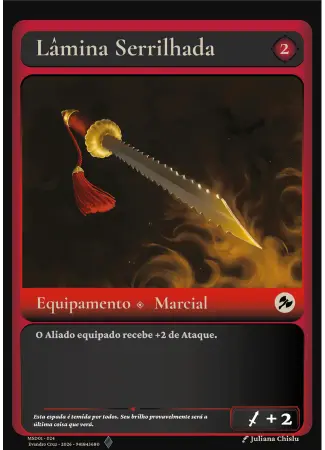
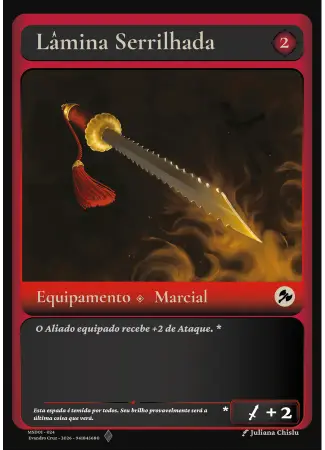
Atualiza layouts das cartas, remove recorte da Redoma Santa e ajusta testes para refletir mudanças

diff --git a/data/cards.js b/data/cards.js
@@ -88,12 +88,8 @@ const sourceOverrides = {
   mantocouro: 'layout-mantocouro.ai.png',
   mascota: 'layout-aranhasmascote.ai.png'
 };
-const sourceCrops = {
-  redomasanta: { left: 0, top: 0, width: 744, height: 1050 }
-};
 export const cards = entries.map(([id, name, type, affiliation, cost, description = '', token = false]) => ({
   id, name, type, affiliation, cost, description, token,
-  crop: sourceCrops[id],
   image: `/media/cartas/layout-${id}.webp`,
   thumbnail: `/media/cartas/thumbs/layout-${id}.webp`,
   reading: `/media/cartas/leitura/layout-${id}.webp`,

diff --git a/README.md b/README.md
@@ -36,7 +36,7 @@ Também existem tarefas do VS Code **Prévia Mytragor** e **Testar Mytragor**. U
 - `manual/`: PDF, páginas originais e OCR original. A busca usa resumos revisados, não exibe OCR ruidoso como regra.
 - `media/`: derivados WebP para publicação. Devem ser versionados; o site publicado não depende do Node ou do Sharp.
 - As cartas WebP são recortadas pelos limites do canal alpha e enquadradas em 650 × 900, sem esticar a arte. Bordas, textos e créditos são preservados; apenas margens totalmente transparentes são removidas. `scripts/inspect-cards.mjs` permite conferir os limites dos originais.
-- Os seis equipamentos usam os layouts atuais de `cartas.png/`, nas imagens de catálogo, miniaturas e ampliações. A Redoma Santa tem um recorte explícito em `data/cards.js` para remover somente a linha branca inferior, sem alterar o PNG original. Para regenerar apenas esses derivados: `node scripts/update-cards.mjs laminaserrilhada livroarcanoinstavel mantocouro orbeabsorcao Queliceras redomasanta`.
+- Os seis equipamentos usam os layouts atuais de `cartas.png/`, nas imagens de catálogo, miniaturas e ampliações. A versão atual da Redoma Santa dispensa o antigo recorte da linha branca inferior e preserva o layout completo. Para regenerar apenas esses derivados: `node scripts/update-cards.mjs laminaserrilhada livroarcanoinstavel mantocouro orbeabsorcao Queliceras redomasanta`.
 - `lib/`: componentes da galeria e regras puras de montagem.
 - `scripts/`: geração de imagens e servidor local.
 - `tests/`: testes com executor nativo do Node.
